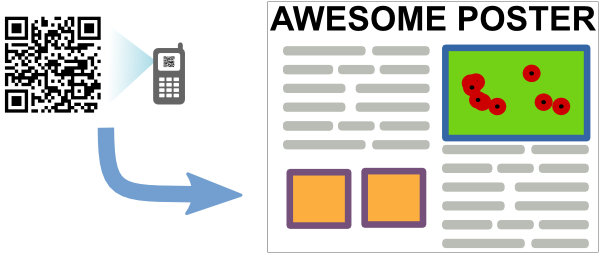
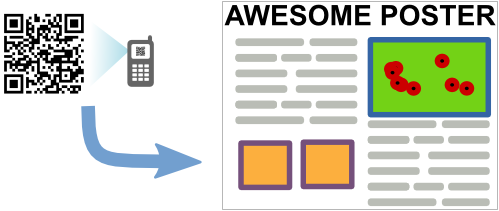
Used hack from csswizardry to display different image for mobile.

diff --git a/index.html b/index.html
@@ -44,7 +44,7 @@
 	<!-- Delete everything in this .container and get started on your own site! -->
 
 	<div class="container">
-		<div class="sixteen columns">
+		<div class="fourteen columns">
 			<h1 class="remove-bottom" style="margin-top: 40px">Poster Lynx</h1>
 			<h5>Your poster's home online.</h5>
 			<hr />
@@ -57,10 +57,13 @@
 			<p>Contact us to learn more about <strong>Poster Lynx</strong> and be notified when we launch.</p>
             <p style="text-align:center;"><a href="mailto:info@posterlynx.com?subject=Tell me more about Poster Lynx&body=Please send me more info about Poster Lynx." class="button"><strong>Contact us</strong></a></p>
 		</div>
-		<div class="eleven columns omega">
-			<img src="qr2poster.png" /><br/><br/>
-            <p style="text-align:center;">In person viewers can scan your poster's QR code to go to the poster's page online.</p>
-            <p style="text-align:center;">Put an end to low resolution pictures snapped for later viewing.</p>
+		<div class="nine columns omega" style="text-align:center;">
+            <div class="r-img" style="background:url(qr2poster.png); width:499px; height:211px;">
+                <img src="qr2poster2.png" alt="">
+            </div>
+            <br/><br/>
+            <p>In person viewers can scan your poster's QR code to go to the poster's page online.</p>
+            <p>Put an end to low resolution pictures snapped for later viewing.</p>
 		</div>
 
 

diff --git a/stylesheets/layout.css b/stylesheets/layout.css
@@ -30,13 +30,33 @@
 	@media only screen and (min-width: 768px) and (max-width: 959px) {}
 
 	/* All Mobile Sizes (devices and browser) */
-	@media only screen and (max-width: 767px) {}
+/*	@media only screen and (max-width: 767px) {}*/
 
-	/* Mobile Landscape Size to Tablet Portrait (devices and browsers) */
-	@media only screen and (min-width: 480px) and (max-width: 767px) {}
+    .r-img img{
+        /* Hide image off-screen on larger devices, but leave it accessible to screen-readers */
+        position:absolute;
+        left:-9999px;
+    }
 
-	/* Mobile Portrait Size to Mobile Landscape Size (devices and browsers) */
-	@media only screen and (max-width: 479px) {}
+    @media(max-width:767px){
+        .r-img{
+            /* Remove styling from the div */
+            background:none!important;
+            width:auto!important;
+            height:auto!important;
+        }
+        .r-img img{
+            /* Bring smaller image back into view */
+            position:static;
+            max-width:100%;
+        }
+    }
+
+/*	/* Mobile Landscape Size to Tablet Portrait (devices and browsers) */*/
+/*	@media only screen and (min-width: 480px) and (max-width: 767px) {}*/
+
+/*	/* Mobile Portrait Size to Mobile Landscape Size (devices and browsers) */*/
+/*	@media only screen and (max-width: 479px) {}*/
 
 
 /* #Font-Face
